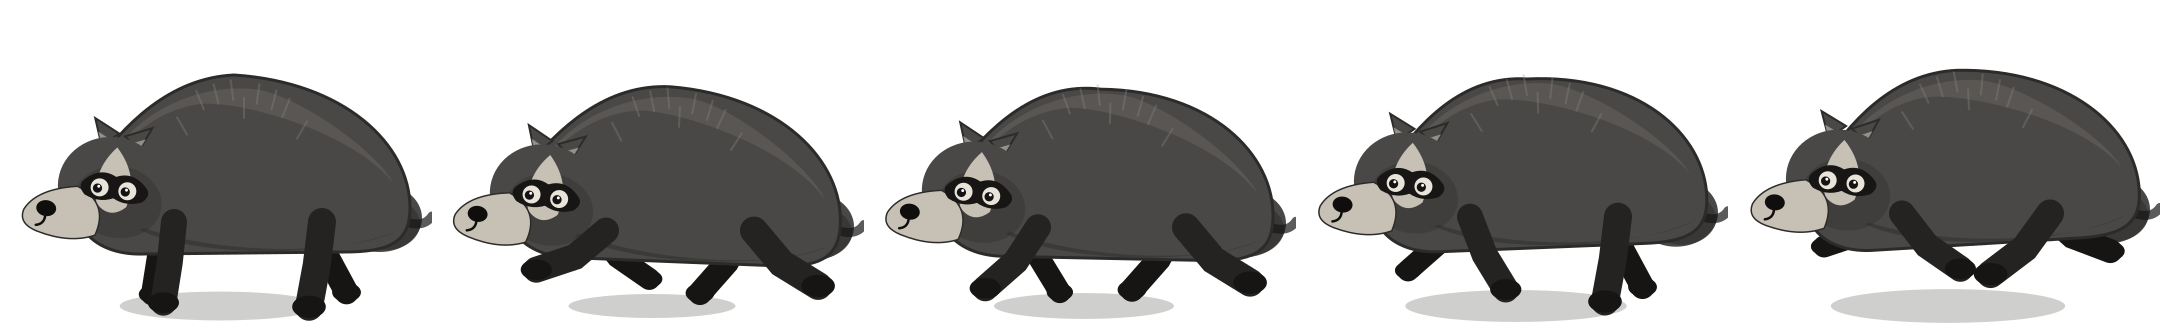
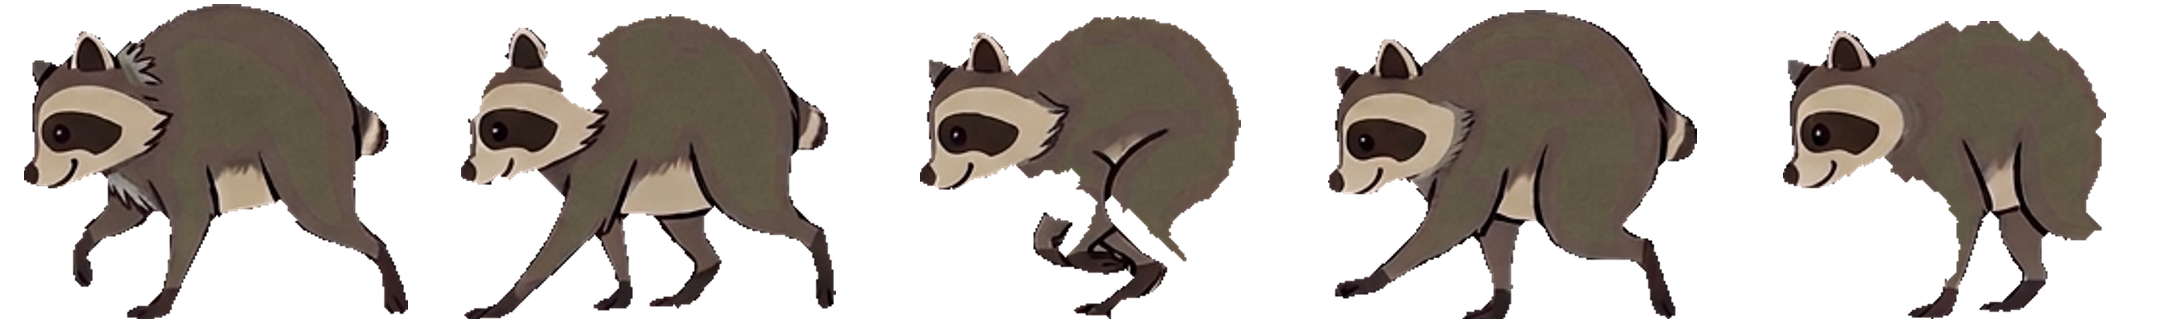
Import Jimothy sprite from provided run-cycle image (keyed, normalized, face-left)

diff --git a/tools/import_sheet.js b/tools/import_sheet.js
@@ -1,0 +1,189 @@
+// Imports an external raccoon run-cycle image (e.g. a Gemini-generated sheet with
+// a baked-in checkerboard "transparent" background) and normalizes it into the
+// extension's sprite sheet: 5 frames x 432x336 -> 2160x336, facing LEFT,
+// on a common baseline, with a real alpha channel.
+//
+// Usage: node tools/import_sheet.js <source.png>
+//   (defaults to the Gemini image in C:/Temp if no arg given)
+
+const sharp = require("sharp");
+const fs = require("fs");
+
+const FW = 432, FH = 336, N = 5;
+const SRC = process.argv[2] || "C:/Temp/Gemini_Generated_Image_xfrdbdxfrdbdxfrd.png";
+const OUT = "C:/Temp/jimothy-raccoon/assets/jimothy_run.png";
+
+// Background classifier thresholds (see isBg): neutral + mid-brightness checker.
+const SAT_BG = 22, LO_A = 36, HI_A = 152;      // strict, for the flood seed/interior
+const SAT_FR = 28, LO_FR = 30, HI_FR = 162;    // looser, for the defringe edge pass
+
+// Background = the baked checkerboard: neutral (low saturation) and mid-brightness.
+// The olive fur is saturated; the outline is very dark; the face is bright.
+// Flood fill from the borders stops at those, and interior low-sat highlights are
+// protected because the outline ring encloses them.
+function isBg(r, g, b, satMax, loA, hiA) {
+  const sat = Math.max(r, g, b) - Math.min(r, g, b);
+  const avg = (r + g + b) / 3;
+  return sat <= satMax && avg >= loA && avg <= hiA;
+}
+
+async function main() {
+  const { data, info } = await sharp(SRC).ensureAlpha().raw().toBuffer({ resolveWithObject: true });
+  const W = info.width, H = info.height, C = info.channels;
+  const idx = (x, y) => (y * W + x) * C;
+
+  // 1) Flood-fill background transparency from every border pixel (8-connected).
+  const alpha = new Uint8Array(W * H).fill(255);   // 255 = keep, 0 = transparent
+  const stack = [];
+  const pushIf = (x, y) => {
+    if (x < 0 || y < 0 || x >= W || y >= H) return;
+    const a = y * W + x;
+    if (alpha[a] === 0) return;
+    const o = idx(x, y);
+    if (isBg(data[o], data[o + 1], data[o + 2], SAT_BG, LO_A, HI_A)) { alpha[a] = 0; stack.push(a); }
+  };
+  for (let x = 0; x < W; x++) { pushIf(x, 0); pushIf(x, H - 1); }
+  for (let y = 0; y < H; y++) { pushIf(0, y); pushIf(W - 1, y); }
+  while (stack.length) {
+    const a = stack.pop();
+    const x = a % W, y = (a - x) / W;
+    pushIf(x + 1, y); pushIf(x - 1, y); pushIf(x, y + 1); pushIf(x, y - 1);
+    pushIf(x + 1, y + 1); pushIf(x - 1, y - 1); pushIf(x + 1, y - 1); pushIf(x - 1, y + 1);
+  }
+
+  // 2) Defringe: clear loose-bg pixels that touch transparency (kills checker halo).
+  const toClear = [];
+  for (let y = 0; y < H; y++) for (let x = 0; x < W; x++) {
+    const a = y * W + x;
+    if (alpha[a] === 0) continue;
+    const o = idx(x, y);
+    if (!isBg(data[o], data[o + 1], data[o + 2], SAT_FR, LO_FR, HI_FR)) continue;
+    if ((x > 0 && alpha[a - 1] === 0) || (x < W - 1 && alpha[a + 1] === 0) ||
+        (y > 0 && alpha[a - W] === 0) || (y < H - 1 && alpha[a + W] === 0)) toClear.push(a);
+  }
+  for (const a of toClear) alpha[a] = 0;
+
+  // 2b) Drop small detached blobs (Gemini sparkle watermark, stray specks):
+  //     keep only connected components large enough to be a raccoon.
+  const MIN_AREA = 3000;
+  const seen = new Uint8Array(W * H);
+  for (let start = 0; start < W * H; start++) {
+    if (alpha[start] === 0 || seen[start]) continue;
+    const comp = [start];
+    seen[start] = 1;
+    for (let qi = 0; qi < comp.length; qi++) {
+      const a = comp[qi], x = a % W, y = (a - x) / W;
+      const nb = [];
+      if (x > 0) nb.push(a - 1);
+      if (x < W - 1) nb.push(a + 1);
+      if (y > 0) nb.push(a - W);
+      if (y < H - 1) nb.push(a + W);
+      for (const n of nb) if (alpha[n] && !seen[n]) { seen[n] = 1; comp.push(n); }
+    }
+    if (comp.length < MIN_AREA) for (const a of comp) alpha[a] = 0;
+  }
+
+  // 2c) The mask is clean, but Gemini drew a light "glow" outline around each
+  //     raccoon (opaque, part of the shape) that reads as a white rim. Shave it
+  //     with a uniform hard erosion of the mask (a few px all around).
+  const ERODE = Number(process.env.ERODE || 3);
+  for (let pass = 0; pass < ERODE; pass++) {
+    const edge = [];
+    for (let y = 0; y < H; y++) for (let x = 0; x < W; x++) {
+      const a = y * W + x;
+      if (alpha[a] === 0) continue;
+      if ((x > 0 && alpha[a - 1] === 0) || (x < W - 1 && alpha[a + 1] === 0) ||
+          (y > 0 && alpha[a - W] === 0) || (y < H - 1 && alpha[a + W] === 0)) edge.push(a);
+    }
+    if (!edge.length) break;
+    for (const a of edge) alpha[a] = 0;
+  }
+
+  // 2d) Erosion can pinch off a thin piece (e.g. a tail tip) into a small floating
+  //     blob. Re-run the component filter to drop anything tiny that detached.
+  {
+    const MIN_AREA2 = 900;
+    const seen2 = new Uint8Array(W * H);
+    for (let start = 0; start < W * H; start++) {
+      if (alpha[start] === 0 || seen2[start]) continue;
+      const comp = [start]; seen2[start] = 1;
+      for (let qi = 0; qi < comp.length; qi++) {
+        const a = comp[qi], x = a % W, y = (a - x) / W;
+        if (x > 0 && alpha[a - 1] && !seen2[a - 1]) { seen2[a - 1] = 1; comp.push(a - 1); }
+        if (x < W - 1 && alpha[a + 1] && !seen2[a + 1]) { seen2[a + 1] = 1; comp.push(a + 1); }
+        if (y > 0 && alpha[a - W] && !seen2[a - W]) { seen2[a - W] = 1; comp.push(a - W); }
+        if (y < H - 1 && alpha[a + W] && !seen2[a + W]) { seen2[a + W] = 1; comp.push(a + W); }
+      }
+      if (comp.length < MIN_AREA2) for (const a of comp) alpha[a] = 0;
+    }
+  }
+
+  // Write alpha back into the RGBA buffer.
+  for (let i = 0; i < W * H; i++) data[i * C + 3] = alpha[i];
+
+  // 3) Segment into raccoons by columns of "ink" (opaque pixels).
+  const colInk = new Uint8Array(W);
+  const rowMinY = new Int32Array(W).fill(H);
+  const rowMaxY = new Int32Array(W).fill(-1);
+  for (let x = 0; x < W; x++) {
+    for (let y = 0; y < H; y++) {
+      if (alpha[y * W + x]) { colInk[x] = 1; if (y < rowMinY[x]) rowMinY[x] = y; if (y > rowMaxY[x]) rowMaxY[x] = y; }
+    }
+  }
+  const segs = [];
+  let s = -1;
+  const GAP = 6; // allow tiny gaps within a body
+  let gap = 0;
+  for (let x = 0; x < W; x++) {
+    if (colInk[x]) { if (s < 0) s = x; gap = 0; }
+    else if (s >= 0) { if (++gap > GAP) { segs.push([s, x - gap]); s = -1; } }
+  }
+  if (s >= 0) segs.push([s, W - 1]);
+
+  // Keep the 5 widest segments (drops the Gemini sparkle watermark, specks).
+  segs.sort((a, b) => (b[1] - b[0]) - (a[1] - a[0]));
+  const picked = segs.slice(0, N).sort((a, b) => a[0] - b[0]);
+  if (picked.length !== N) throw new Error(`expected ${N} raccoons, found ${picked.length}: ${JSON.stringify(segs)}`);
+
+  // 4) Extract each frame's tight bounding box.
+  const src = sharp(Buffer.from(data), { raw: { width: W, height: H, channels: C } });
+  const boxes = picked.map(([x0, x1]) => {
+    let minY = H, maxY = -1;
+    for (let x = x0; x <= x1; x++) { if (rowMaxY[x] >= 0) { if (rowMinY[x] < minY) minY = rowMinY[x]; if (rowMaxY[x] > maxY) maxY = rowMaxY[x]; } }
+    return { x: x0, y: minY, w: x1 - x0 + 1, h: maxY - minY + 1 };
+  });
+
+  // 5) Scale so frame #4 (the cleanest walking pose) fills the cell; apply that
+  //    same uniform scale to all frames and align them on a common baseline so
+  //    every frame reads at the same size and vertical position (no jitter).
+  const PAD = 0.92;                 // fraction of the cell frame #4 fills
+  const ref = boxes[3];             // frame #4 (0-indexed 3) is the reference
+  const scale = Math.min((FW * PAD) / ref.w, (FH * PAD) / ref.h);
+  const baseline = Math.round(FH * 0.95);   // feet sit here in every cell
+
+  const cells = [];
+  for (let k = 0; k < N; k++) {
+    const b = boxes[k];
+    const crop = await src.clone().extract({ left: b.x, top: b.y, width: b.w, height: b.h })
+      .flop()                                   // faces right -> face LEFT
+      .resize({ width: Math.max(1, Math.round(b.w * scale)), height: Math.max(1, Math.round(b.h * scale)) })
+      .toBuffer({ resolveWithObject: true });
+    const cw = crop.info.width, ch = crop.info.height;
+    const left = Math.round((FW - cw) / 2);
+    const top = Math.round(baseline - ch);
+    const cell = await sharp({ create: { width: FW, height: FH, channels: 4, background: { r: 0, g: 0, b: 0, alpha: 0 } } })
+      .composite([{ input: crop.data, raw: { width: cw, height: ch, channels: 4 }, left, top }])
+      .png().toBuffer();
+    cells.push({ input: cell, left: k * FW, top: 0 });
+    fs.writeFileSync(`C:/Temp/jimothy-raccoon/tools/frame_${k}.png`, cell);
+  }
+
+  const sheet = await sharp({ create: { width: FW * N, height: FH, channels: 4, background: { r: 0, g: 0, b: 0, alpha: 0 } } })
+    .composite(cells).png().toBuffer();
+  fs.writeFileSync(OUT, sheet);
+  console.log("segments:", picked.map(p => p.join("-")).join(", "));
+  console.log("boxes:", boxes.map(b => `${b.w}x${b.h}`).join(", "), "scale:", scale.toFixed(3));
+  console.log("Wrote", OUT, `(${FW * N}x${FH})`);
+}
+
+main().catch((e) => { console.error(e); process.exit(1); });

diff --git a/README.md b/README.md
@@ -81,19 +81,34 @@ animation always plays. Use the toolbar toggle to turn him off entirely.
 | `assets/jimothy_run.png` | 5-frame run-cycle sprite sheet (2160×336) |
 | `assets/icon_*.png` | Toolbar / install icons (raccoon emoji) |
 | `tools/gen_jimothy.js` | Regenerates the sprite sheet from scratch |
+| `tools/import_sheet.js` | Imports/normalizes an external run-cycle image into the sheet |
 
 ## The artwork
 
-Jimothy is an **original** character — a raccoon with short-spine syndrome (a
-compact, stubby body) and a stub tail. The run-cycle sprite sheet is generated
-procedurally from hand-authored parametric SVG in
-[`tools/gen_jimothy.js`](tools/gen_jimothy.js); nothing is copied from any other
-source. To regenerate the sheet after tweaking the art:
+Jimothy is modelled on the real **"Jimothy Summer"**, a Seattle raccoon with
+short-spine syndrome — hence the hunched, humpbacked silhouette, the low head,
+the dark grizzled fur, and the stubby tail.
+
+The committed sprite sheet (`assets/jimothy_run.png`) is a 5-frame run cycle
+imported from a hand-provided run-cycle image (AI-generated, then hand-picked)
+and normalised by [`tools/import_sheet.js`](tools/import_sheet.js), which:
+
+- keys out the baked-in checkerboard background into a real alpha channel
+  (flood fill from the edges, gated on saturation + brightness so it stops at
+  the fur/outline),
+- drops the generator's watermark and any stray specks,
+- shaves the drawn light "glow" outline with a small erosion,
+- slices the five raccoons, flips them to face **left**, and re-composites them
+  at a uniform scale on a common baseline (sized to frame #4) so the animation
+  reads evenly with no jitter.
 
 ```
-npm install        # one-time, pulls in `sharp`
-node tools/gen_jimothy.js
+npm install                              # one-time, pulls in `sharp`
+node tools/import_sheet.js path/to/sheet.png   # re-import a new source image
 ```
+
+A fully procedural, from-scratch alternative also lives in
+[`tools/gen_jimothy.js`](tools/gen_jimothy.js) (`node tools/gen_jimothy.js`).
 
 ## Known limitations
 
@@ -110,7 +125,9 @@ node tools/gen_jimothy.js
 
 ## Credits
 
-- **Jimothy sprite** — original artwork, generated by `tools/gen_jimothy.js`.
+- **Jimothy sprite** — modelled on the real "Jimothy Summer" Seattle raccoon;
+  the committed run cycle was imported and normalized by `tools/import_sheet.js`,
+  and a from-scratch procedural version is available via `tools/gen_jimothy.js`.
 - **Toolbar icon** — the raccoon emoji from
   [Twemoji](https://github.com/jdecked/twemoji), © Twitter, Inc. and other
   contributors, licensed under
